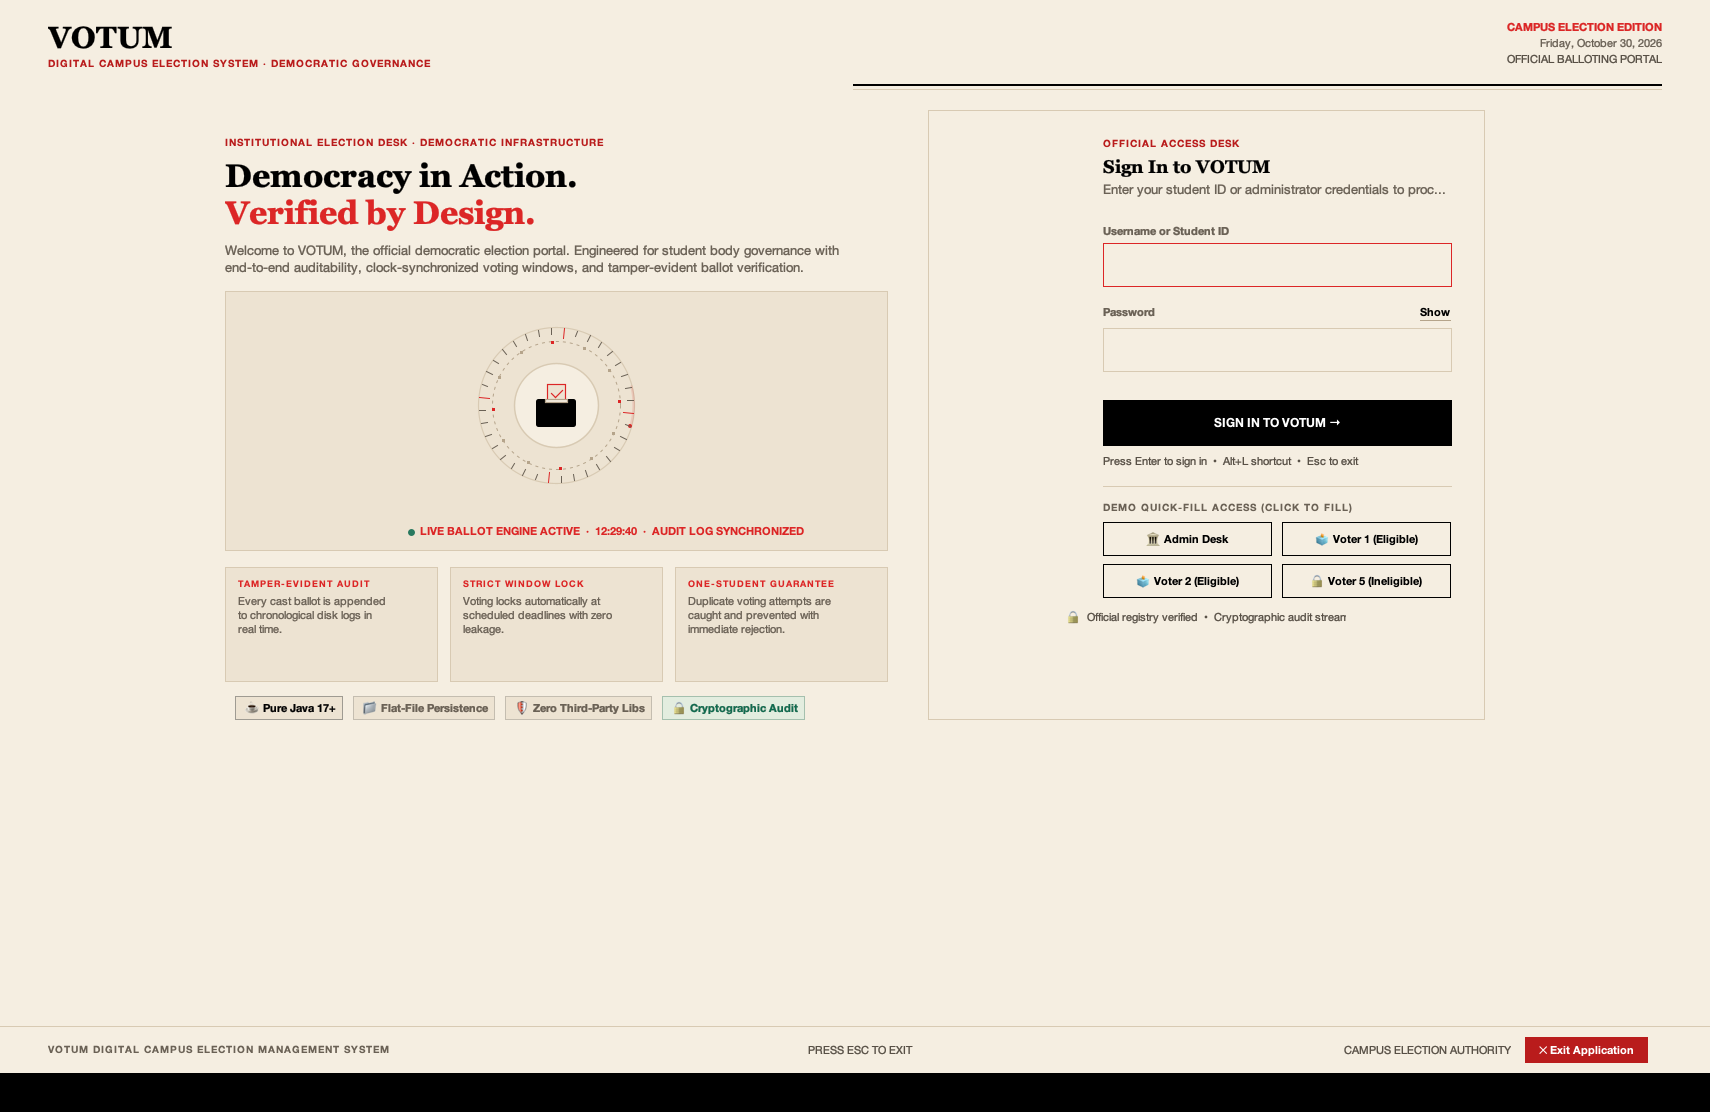
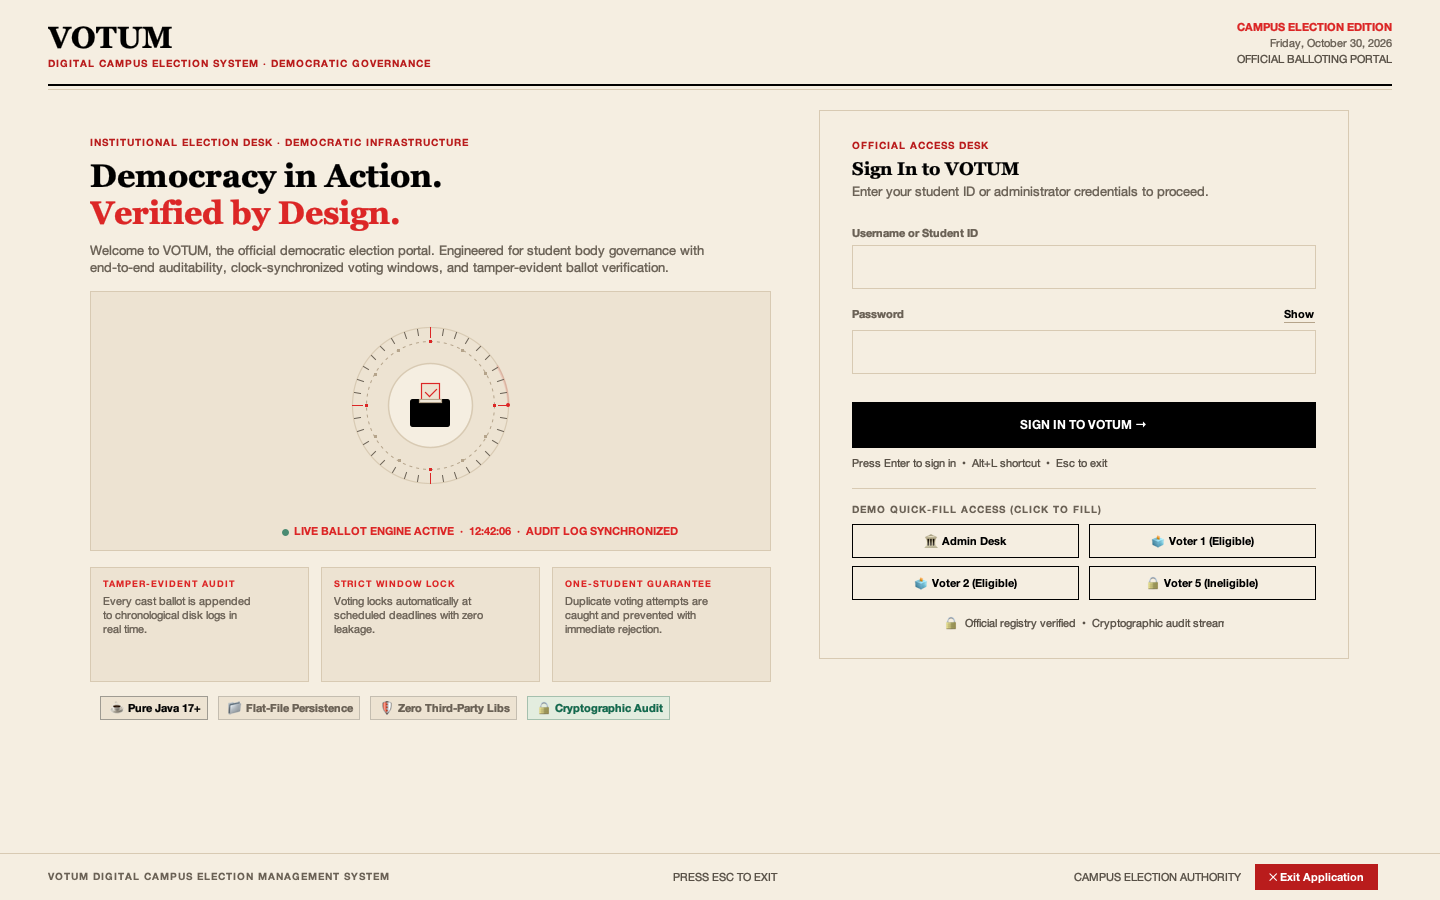
fix(ui): resolve login card empty margins and extend full-width masthead rule

diff --git a/src/com/votum/ui/LoginFrame.java b/src/com/votum/ui/LoginFrame.java
@@ -104,19 +104,19 @@ public final class LoginFrame extends JFrame {
         gbc.gridx = 0;
         gbc.gridy = 0;
         gbc.weightx = 0.52;
-        gbc.weighty = 1.0;
-        gbc.fill = GridBagConstraints.BOTH;
+        gbc.weighty = 0.0;
+        gbc.fill = GridBagConstraints.HORIZONTAL;
         gbc.anchor = GridBagConstraints.NORTH;
-        gbc.insets = new Insets(0, 0, 0, 20);
+        gbc.insets = new Insets(0, 0, 0, 24);
         body.add(buildBrandAndCivicShowcase(), gbc);
 
         gbc.gridx = 1;
         gbc.gridy = 0;
         gbc.weightx = 0.48;
-        gbc.weighty = 1.0;
-        gbc.fill = GridBagConstraints.BOTH;
+        gbc.weighty = 0.0;
+        gbc.fill = GridBagConstraints.HORIZONTAL;
         gbc.anchor = GridBagConstraints.NORTH;
-        gbc.insets = new Insets(0, 20, 0, 0);
+        gbc.insets = new Insets(0, 24, 0, 0);
         body.add(buildSignInTerminal(), gbc);
 
         // CenteredPage (1260px) groups the left showcase and right card cleanly in the middle of any display
@@ -148,12 +148,10 @@ public final class LoginFrame extends JFrame {
         });
     }
 
-    /** Masthead, edition line and the double rule that opens the page. */
+    /** Masthead, edition line and the double rule that opens the page edge-to-edge. */
     private JPanel buildMasthead() {
-        JPanel block = new JPanel();
-        block.setLayout(new BoxLayout(block, BoxLayout.Y_AXIS));
+        JPanel block = new JPanel(new BorderLayout(0, 14));
         block.setBackground(UITheme.PAPER);
-        block.setAlignmentX(Component.LEFT_ALIGNMENT);
 
         JPanel row = new JPanel(new BorderLayout(24, 0));
         row.setOpaque(false);
@@ -202,11 +200,16 @@ public final class LoginFrame extends JFrame {
         row.add(titleBlock, BorderLayout.WEST);
         row.add(meta, BorderLayout.EAST);
 
-        block.add(row);
-        block.add(Box.createVerticalStrut(14));
-        block.add(UITheme.createRule(2, UITheme.INK));
-        block.add(Box.createVerticalStrut(3));
-        block.add(UITheme.createRule(1, UITheme.RULE));
+        // Heavy masthead double rule: stretches 100% from under VOTUM all the way to the right
+        JPanel rulesPanel = new JPanel();
+        rulesPanel.setLayout(new BoxLayout(rulesPanel, BoxLayout.Y_AXIS));
+        rulesPanel.setOpaque(false);
+        rulesPanel.add(UITheme.createRule(2, UITheme.INK));
+        rulesPanel.add(Box.createVerticalStrut(3));
+        rulesPanel.add(UITheme.createRule(1, UITheme.RULE));
+
+        block.add(row, BorderLayout.CENTER);
+        block.add(rulesPanel, BorderLayout.SOUTH);
         return block;
     }
 
@@ -376,7 +379,7 @@ public final class LoginFrame extends JFrame {
         card.setLayout(new BoxLayout(card, BoxLayout.Y_AXIS));
         card.setBorder(new CompoundBorder(
                 new LineBorder(UITheme.RULE, 1),
-                new EmptyBorder(26, 32, 26, 32)
+                new EmptyBorder(28, 32, 28, 32)
         ));
         card.setAlignmentX(Component.LEFT_ALIGNMENT);
 
@@ -405,10 +408,13 @@ public final class LoginFrame extends JFrame {
         card.add(UITheme.createRule(1, UITheme.RULE));
         card.add(Box.createVerticalStrut(14));
         card.add(buildDemoGrid());
-        card.add(Box.createVerticalStrut(12));
+        card.add(Box.createVerticalStrut(16));
 
         JPanel footnotePanel = new JPanel(new FlowLayout(FlowLayout.CENTER, 6, 0));
         footnotePanel.setOpaque(false);
+        footnotePanel.setAlignmentX(Component.LEFT_ALIGNMENT);
+        footnotePanel.setMaximumSize(new Dimension(Integer.MAX_VALUE, 24));
+
         JLabel footnote = new JLabel("🔒  Official registry verified  \u2022  Cryptographic audit stream");
         footnote.setFont(UITheme.FONT_SMALL);
         footnote.setForeground(UITheme.FAINT);
@@ -565,6 +571,7 @@ public final class LoginFrame extends JFrame {
         panel.setLayout(new BoxLayout(panel, BoxLayout.Y_AXIS));
         panel.setOpaque(false);
         panel.setAlignmentX(Component.LEFT_ALIGNMENT);
+        panel.setMaximumSize(new Dimension(Integer.MAX_VALUE, 110));
 
         JLabel header = UITheme.createKicker("DEMO QUICK-FILL ACCESS (CLICK TO FILL)");
         header.setForeground(UITheme.MUTED);
